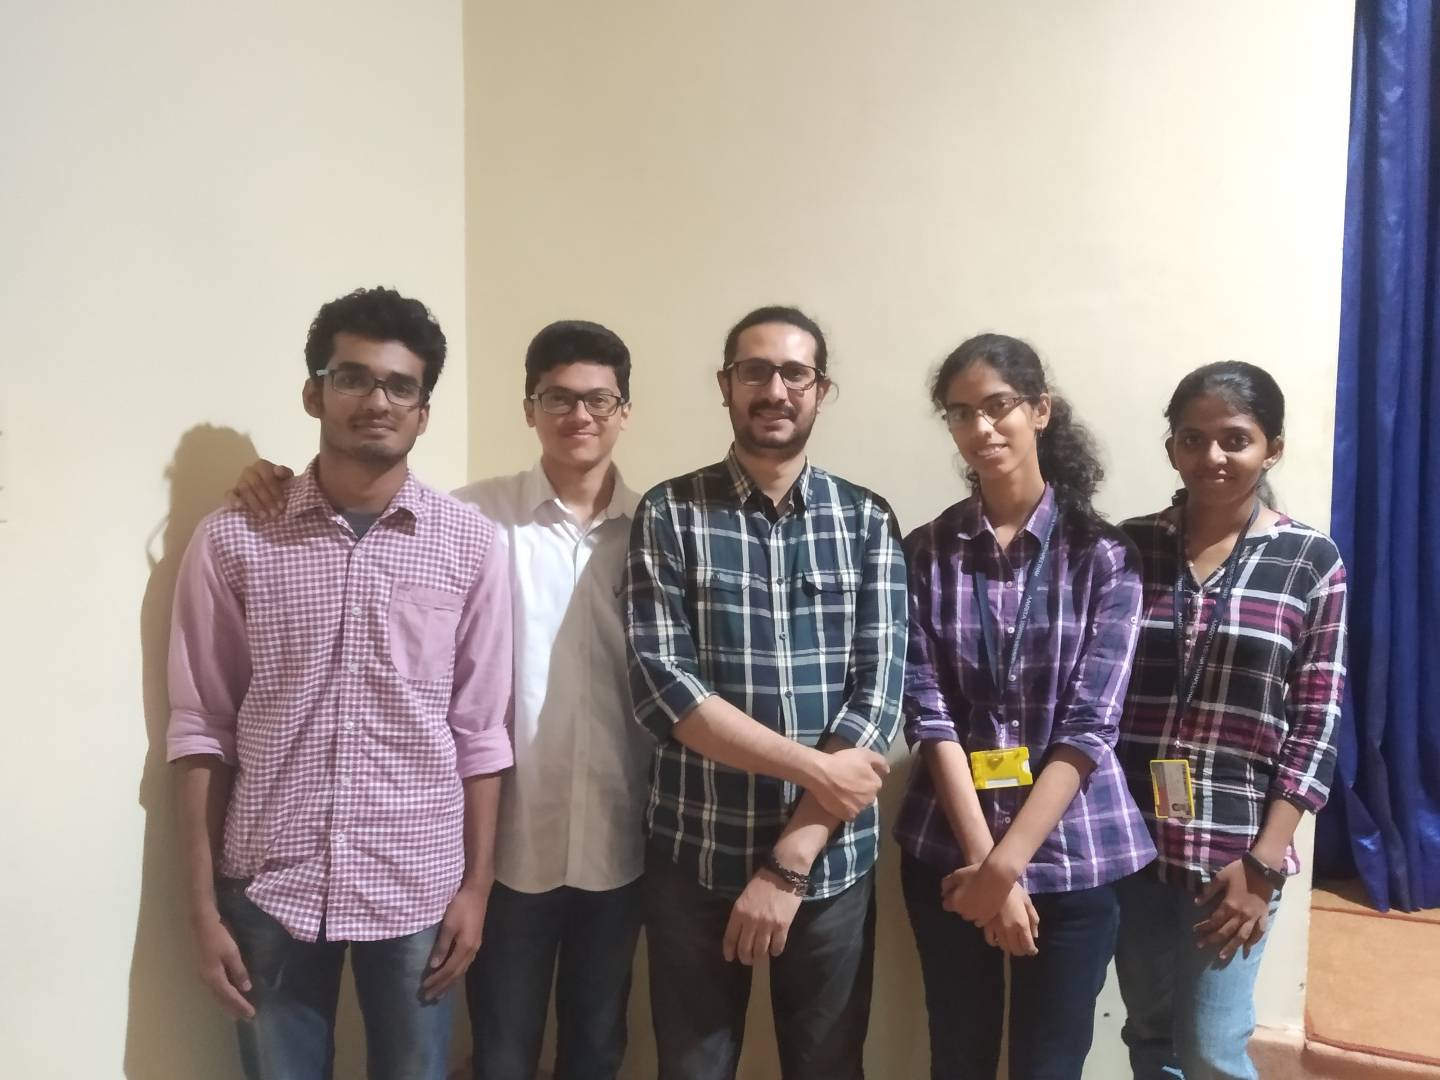
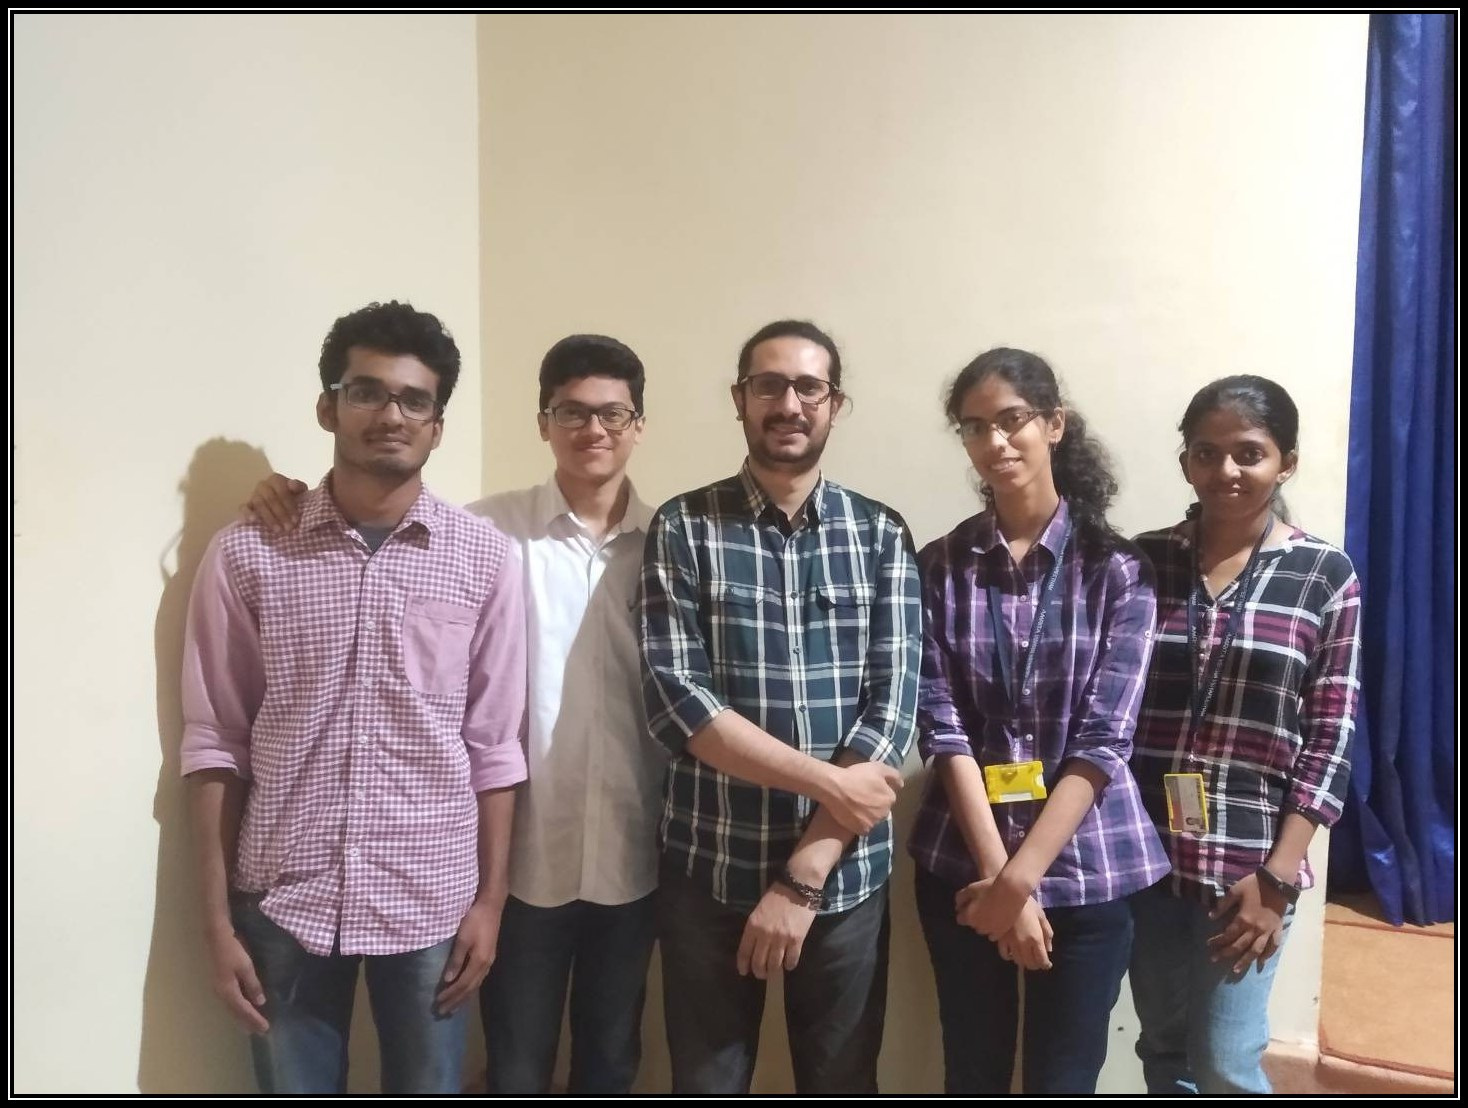
updated_events

Changed region(s): [[0.0, 0.0, 1.0, 1.0], [0.4688, 0.4278, 0.5, 0.4583], [0.25, 0.2444, 0.2812, 0.275]]

diff --git a/events.html b/events.html
@@ -97,7 +97,7 @@
                 <div class="row">
                     <div class="col-xl-12">
                          <div class="section-tittle text-center mb-80">
-                            <h2>GALLERY</h2>
+                            <h2>EVENTS</h2>
                         </div>
                     </div>
                 </div>
@@ -113,7 +113,7 @@
                         <div class="blog_left_sidebar">
                                <div class="col-lg-11 mb-17 mb-lg-9">
 				  
-                                    <img class="d-inline-block" src="assets/img/1.png" alt="" >
+                                    <img class="d-inline-block" src="assets/img/border.jpg" alt="" >
                                     
                                         
                                     </a>
@@ -131,7 +131,7 @@
 			<div class="col-lg-25 mb-13 mb-lg-0">
                             <article class="blog_item">
                                 <div class="blog_item_img">
-                                    <img class="card-img rounded-0" src="assets/img/owasp.jpeg" alt="">
+                                    <img class="card-img rounded-0" src="assets/img/owasp.jpg" alt="">
                                     
                                     </a>
                                 </div>
@@ -148,7 +148,7 @@
 			<div class="col-lg-11 mb-13 mb-lg-0">
                             <article class="blog_item">
                                 <div class="blog_item_img">
-                                    <img class="card-img rounded-0" src="assets/img/bsides.jpeg" alt="">
+                                    <img class="card-img rounded-0" src="assets/img/hackl.jpg" alt="">
                                     
                                     </a>
                                 </div>
@@ -165,7 +165,7 @@
 
                             <article class="blog_item">
                                 <div class="blog_item_img">
-                                    <img class="card-img rounded-0" src="assets/img/hack.jpg" alt="">
+                                    <img class="card-img rounded-0" src="assets/img/h.jpg" alt="">
                                     </a>
                                 </div>
 				<div class="col-lg-11 mb-13 mb-lg-0">
